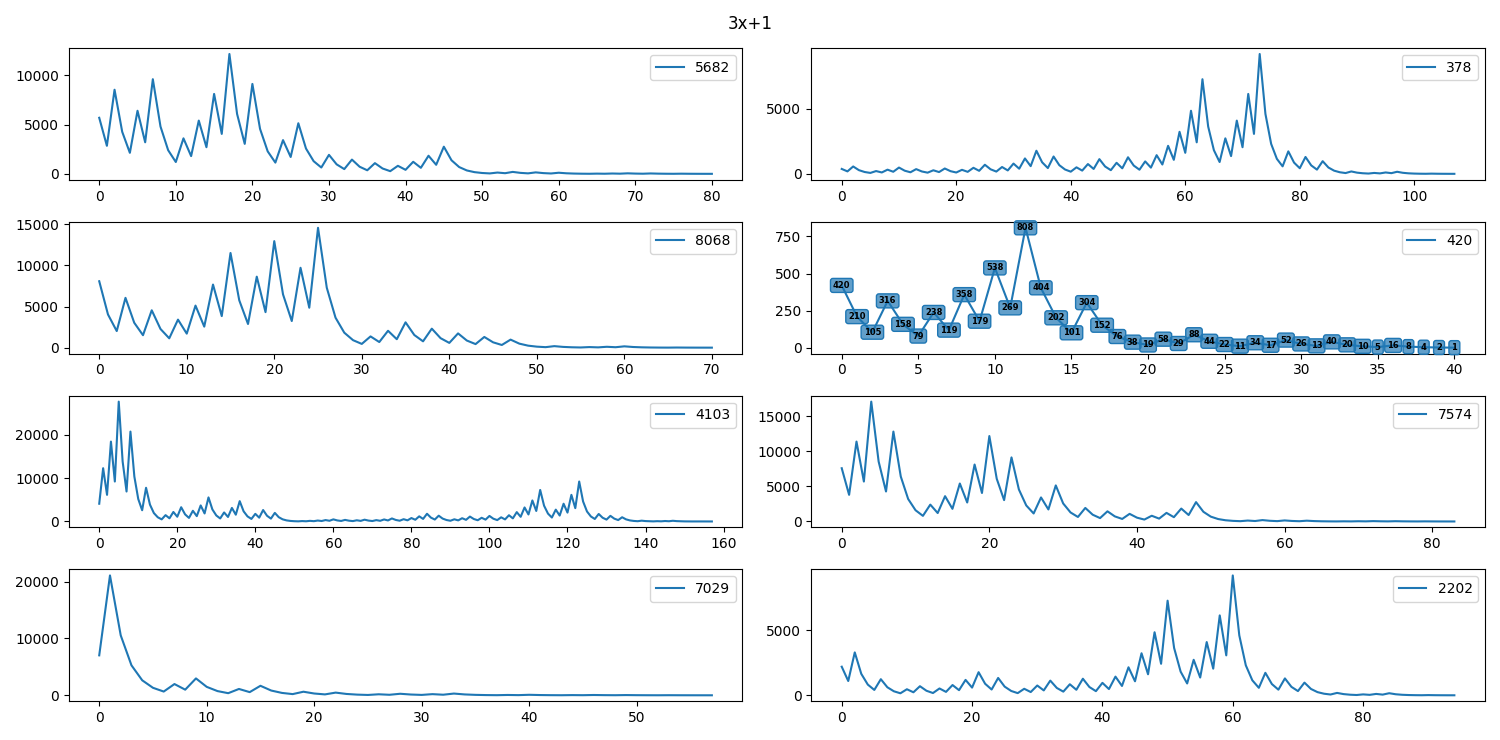
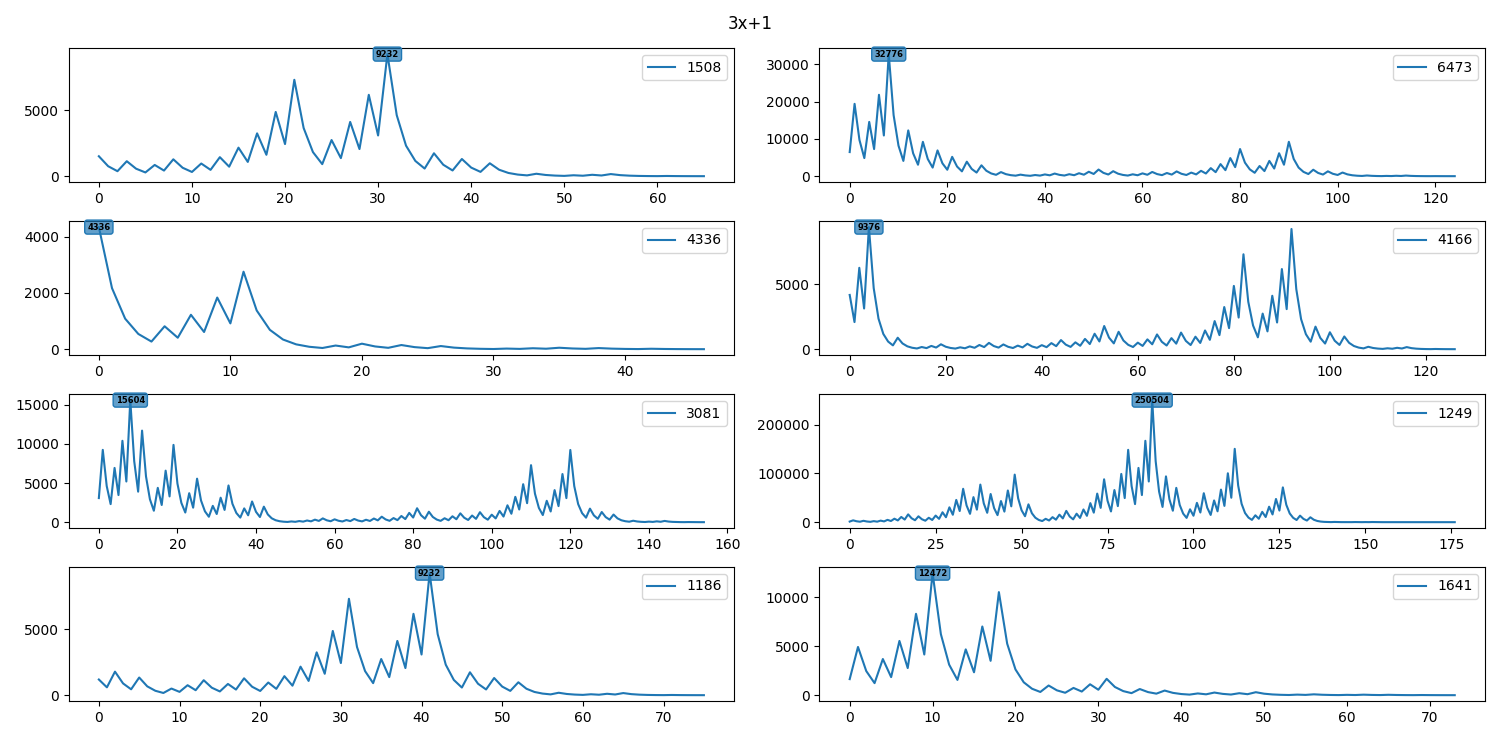
highest_text_only argument

diff --git a/threexplusone/graph.py b/threexplusone/graph.py
@@ -2,6 +2,21 @@ import matplotlib.pyplot as plt
 from matplotlib.colors import to_rgb
 from math import ceil
 
+def add_text(ax, data, fontsize, color):
+    ax.text(
+        data[0],
+        data[1],
+        str(round(data[2])),
+        fontsize=fontsize,
+        fontweight='semibold',
+        ha='center',
+        va='center',
+        bbox={
+            'boxstyle': 'round',
+            'ec': color,
+            'fc': (*to_rgb(color), 0.7)
+        })
+
 class Graph:
     def __init__(self,
         title,
@@ -11,6 +26,7 @@ class Graph:
         text=True,
         auto_text_hiding=True,
         text_limit=50,
+        highest_text_only=False,
         fontsize=6,
         figsize=(15, 7.4),
     ) -> None:
@@ -27,6 +43,7 @@ class Graph:
         self.text = text
         self.auto_text_hiding = auto_text_hiding
         self.text_limit = text_limit
+        self.highest_text_only = highest_text_only
         self.fontsize = fontsize
         self.i = 0
         self.i2 = 0
@@ -39,23 +56,17 @@ class Graph:
         ln, = ax.plot(self.nums, label=str(self.nums[0]))
 
         if self.text:
-            for data in zip(*ln.get_data(), self.nums):
-                if self.auto_text_hiding and len(self.nums) > self.text_limit:
-                    break
+            if self.highest_text_only:
+                m = max(self.nums)
+                i = self.nums.index(m)
+                data = (i, m, m)
+                add_text(ax, data, self.fontsize, ln.get_color())
+            else:
+                for data in zip(*ln.get_data(), self.nums):
+                    if self.auto_text_hiding and len(self.nums) > self.text_limit:
+                        break
 
-                ax.text(
-                    data[0],
-                    data[1],
-                    str(round(data[2])),
-                    fontsize=self.fontsize,
-                    fontweight='semibold',
-                    ha='center',
-                    va='center',
-                    bbox={
-                        'boxstyle': 'round',
-                        'ec': ln.get_color(),
-                        'fc': (*to_rgb(ln.get_color()), 0.7)
-                    })
+                    add_text(ax, data, self.fontsize, ln.get_color())
 
         ax.legend()
 

diff --git a/threexplusone/__init__.py b/threexplusone/__init__.py
@@ -27,6 +27,7 @@ def show(
     fontsize=6,
     auto_text_hiding=True,
     text_limit=50,
+    highest_text_only=False,
     nowindow=False,
     outfile=None
 ):
@@ -39,7 +40,8 @@ def show(
         fontsize=fontsize,
         figsize=figsize,
         auto_text_hiding=auto_text_hiding,
-        text_limit=text_limit
+        text_limit=text_limit,
+        highest_text_only=highest_text_only
     )
 
     if type(nums) == list:

diff --git a/main.py b/main.py
@@ -1,4 +1,4 @@
 from threexplusone import show
 from random import randint
 
-show([randint(10, 10001) for i in range(8)], outfile='figure.png')
+show([randint(10, 10001) for i in range(8)], outfile='figure.png', highest_text_only=True)
